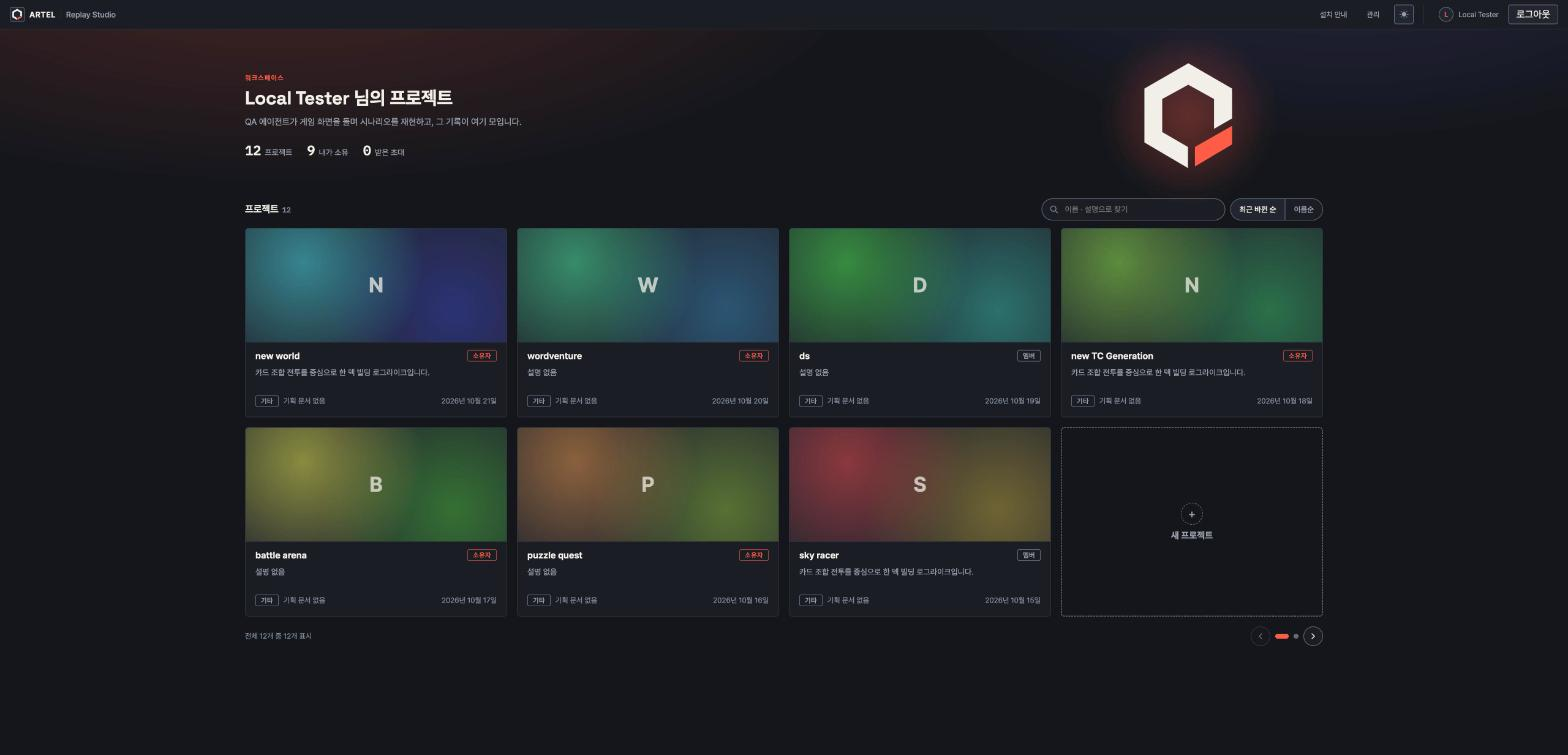
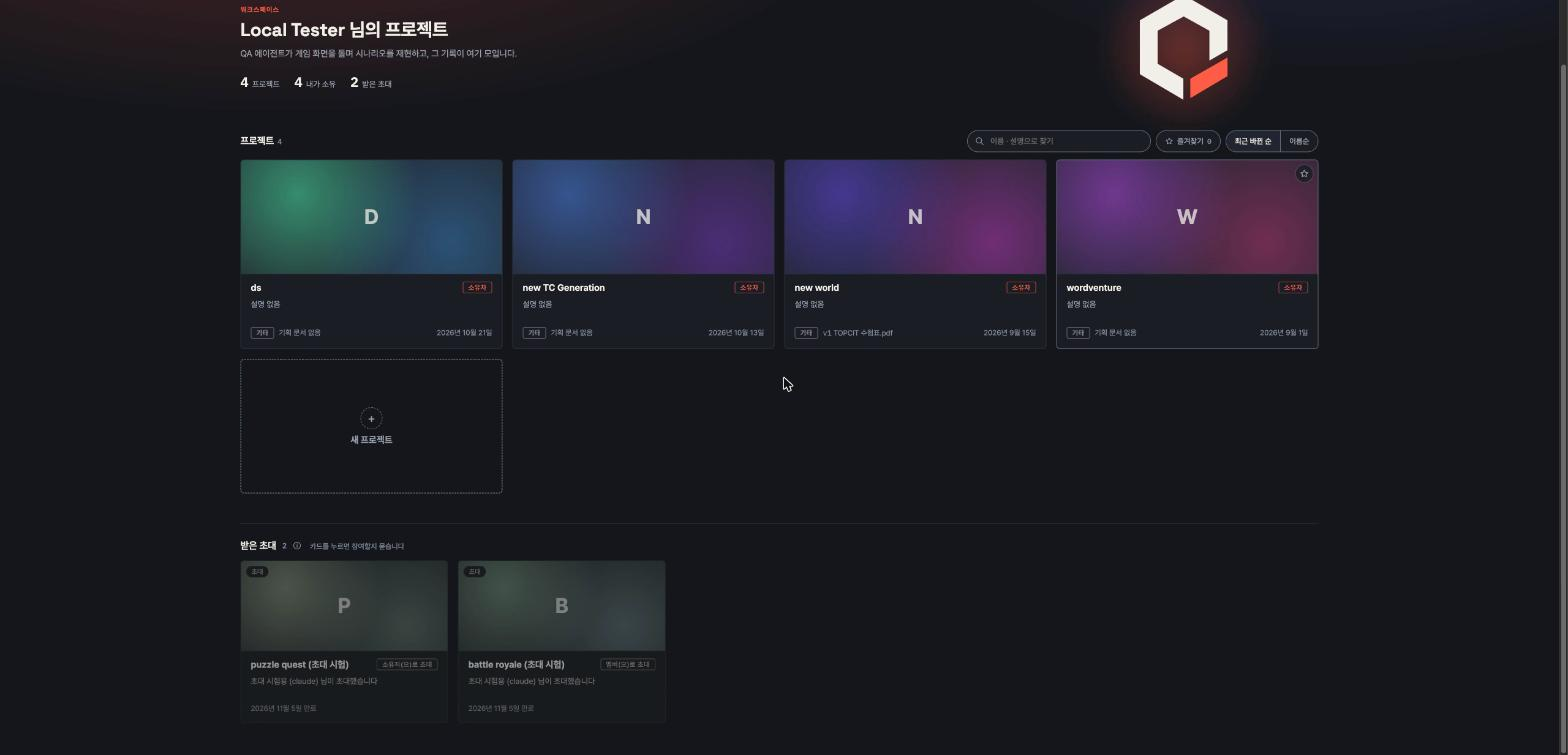
feat(projects): 즐겨찾기만 보는 거르기 단추를 달고 목록 개수 문구를 뺀다
Jira: ARTEL-1208

diff --git a/src/projects/ProjectListPage.tsx b/src/projects/ProjectListPage.tsx
@@ -30,6 +30,7 @@ export function ProjectListPage() {
   const [query, setQuery] = useState('')
   const [sort, setSort] = useState<ProjectSort>('recent')
   const [page, setPage] = useState(0)
+  const [favoritesOnly, setFavoritesOnly] = useState(false)
   const navigate = useNavigate()
   const { t } = useI18n()
   const copy = t.projects.list
@@ -40,7 +41,11 @@ export function ProjectListPage() {
     if (status === 'ready' && hasMore && !loadingMore) loadMore()
   }, [status, hasMore, loadingMore, loadMore])
 
-  const arranged = useMemo(() => arrangeProjects(projects, { query, sort, favorites }), [projects, query, sort, favorites])
+  const arranged = useMemo(
+    () => arrangeProjects(projects, { query, sort, favorites, favoritesOnly }),
+    [projects, query, sort, favorites, favoritesOnly],
+  )
+  const favoriteCount = projects.filter((project) => favorites.has(project.id)).length
   const pages = pageCount(arranged.length)
   const currentPage = Math.min(page, pages - 1)
   const shown = pageSlice(arranged, currentPage)
@@ -105,6 +110,22 @@ export function ProjectListPage() {
               </button>
             )}
           </label>
+          {/* 즐겨찾기만 거르기. 꺼 두어도 즐겨찾기는 늘 앞에 온다. */}
+          <button
+            aria-pressed={favoritesOnly}
+            className={`filter-chip${favoritesOnly ? ' is-on' : ''}`}
+            onClick={() => {
+              setFavoritesOnly((current) => !current)
+              setPage(0)
+            }}
+            type="button"
+          >
+            <svg aria-hidden="true" height="14" viewBox="0 0 24 24" width="14">
+              <path d="M12 3.5l2.6 5.3 5.9.9-4.3 4.1 1 5.8L12 16.9l-5.2 2.7 1-5.8-4.3-4.1 5.9-.9z" />
+            </svg>
+            {copy.favoritesOnly}
+            <span className="filter-chip-count">{favoriteCount}</span>
+          </button>
           <div aria-label={copy.sortLabel} className="segmented segmented--compact" role="group">
             {(['recent', 'name'] as const).map((one) => (
               <button
@@ -178,10 +199,11 @@ export function ProjectListPage() {
               </button>
             </li>
           </ul>
-          {arranged.length === 0 && <p className="detail-empty">{copy.noMatch}</p>}
+          {arranged.length === 0 && (
+            <p className="detail-empty">{favoritesOnly && query.trim() === '' ? copy.noFavorites : copy.noMatch}</p>
+          )}
 
           <div className="project-pager">
-            <span className="list-count">{copy.showingCount(arranged.length, total)}</span>
             {pages > 1 && (
               <div aria-label={copy.pagerLabel} className="project-pager-nav" role="group">
                 <button

diff --git a/src/projects/projectPaging.ts b/src/projects/projectPaging.ts
@@ -5,16 +5,22 @@ export const PROJECTS_PER_PAGE = 7
 
 export type ProjectSort = 'recent' | 'name'
 
-/** 찾기 → 정렬. 즐겨찾기는 정렬과 상관없이 늘 앞에 온다. */
+/** (즐겨찾기만) → 찾기 → 정렬. 즐겨찾기는 정렬과 상관없이 늘 앞에 온다. */
 export function arrangeProjects(
   projects: readonly ProjectSummary[],
-  { query, sort, favorites }: { query: string; sort: ProjectSort; favorites: ReadonlySet<string> },
+  {
+    query,
+    sort,
+    favorites,
+    favoritesOnly = false,
+  }: { query: string; sort: ProjectSort; favorites: ReadonlySet<string>; favoritesOnly?: boolean },
 ): ProjectSummary[] {
   const needle = query.trim().toLowerCase()
-  const matched =
-    needle === ''
-      ? projects
-      : projects.filter((project) => `${project.name} ${project.description ?? ''}`.toLowerCase().includes(needle))
+  const matched = projects.filter(
+    (project) =>
+      (!favoritesOnly || favorites.has(project.id)) &&
+      (needle === '' || `${project.name} ${project.description ?? ''}`.toLowerCase().includes(needle)),
+  )
   return [...matched].sort((a, b) => {
     const favorite = Number(favorites.has(b.id)) - Number(favorites.has(a.id))
     if (favorite !== 0) return favorite

diff --git a/src/layouts/screens.css b/src/layouts/screens.css
@@ -714,6 +714,43 @@
   color: var(--color-text-secondary);
   cursor: pointer;
 }
+.filter-chip {
+  display: inline-flex;
+  align-items: center;
+  gap: 6px;
+  height: 36px;
+  padding: 0 14px;
+  border: 1px solid var(--color-border-strong);
+  border-radius: 999px;
+  background: var(--color-bg-surface);
+  color: var(--color-text-secondary);
+  font: 500 12.5px/20px var(--font-sans);
+  cursor: pointer;
+}
+.filter-chip svg {
+  fill: none;
+  stroke: currentColor;
+  stroke-width: 1.8;
+  stroke-linejoin: round;
+}
+.filter-chip.is-on {
+  border-color: color-mix(in srgb, var(--color-status-warning) 60%, var(--color-border-strong));
+  background: var(--color-status-warning-muted);
+  color: var(--color-text-primary);
+}
+.filter-chip.is-on svg {
+  fill: var(--color-status-warning);
+  stroke: var(--color-status-warning);
+}
+.filter-chip-count {
+  color: var(--color-text-muted);
+  font-family: var(--font-mono);
+  font-size: 11.5px;
+}
+.filter-chip:focus-visible {
+  outline: 2px solid var(--color-action-primary);
+  outline-offset: 2px;
+}
 .segmented--compact {
   border-radius: 999px;
 }

diff --git a/src/i18n/messages/projects.ts b/src/i18n/messages/projects.ts
@@ -57,6 +57,8 @@ export const projectsEn = {
     sortName: 'Name',
     noMatch: 'No project matches.',
     clearSearch: 'Clear the search',
+    favoritesOnly: 'Favorites',
+    noFavorites: 'No favorites yet. Use the star on a card to add one.',
     pagerLabel: 'Project pages',
     previousPage: 'Previous page',
     nextPage: 'Next page',
@@ -717,6 +719,8 @@ export const projectsKo: Localized<typeof projectsEn> = {
     sortName: '이름순',
     noMatch: '맞는 프로젝트가 없습니다.',
     clearSearch: '찾기 지우기',
+    favoritesOnly: '즐겨찾기',
+    noFavorites: '아직 즐겨찾기한 프로젝트가 없습니다. 카드의 별을 눌러 더하세요.',
     pagerLabel: '프로젝트 쪽',
     previousPage: '이전 쪽',
     nextPage: '다음 쪽',

diff --git a/src/projects/projectPaging.test.ts b/src/projects/projectPaging.test.ts
@@ -24,6 +24,11 @@ describe('arrangeProjects', () => {
     assert.deepEqual(arranged.map((one) => one.name), ['ds', 'new world', 'wordventure'])
   })
 
+  it('keeps only favorites when asked', () => {
+    const arranged = arrangeProjects(projects, { query: '', sort: 'recent', favorites: new Set(['2', '1']), favoritesOnly: true })
+    assert.deepEqual(arranged.map((one) => one.id), ['2', '1'])
+  })
+
   it('finds by name or description, ignoring case', () => {
     assert.deepEqual(arrangeProjects(projects, { query: 'PUZZLE', sort: 'recent', favorites: new Set() }).map((one) => one.id), ['1'])
   })
